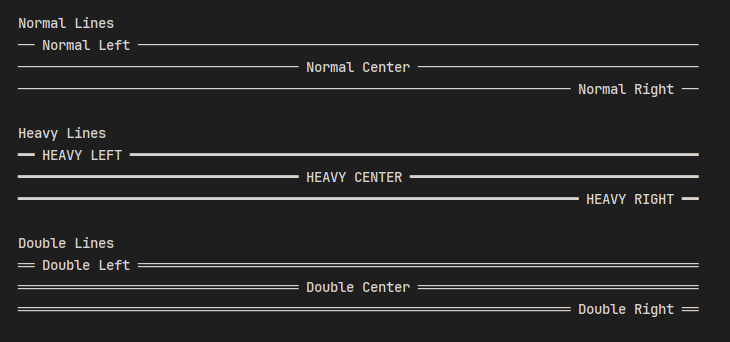
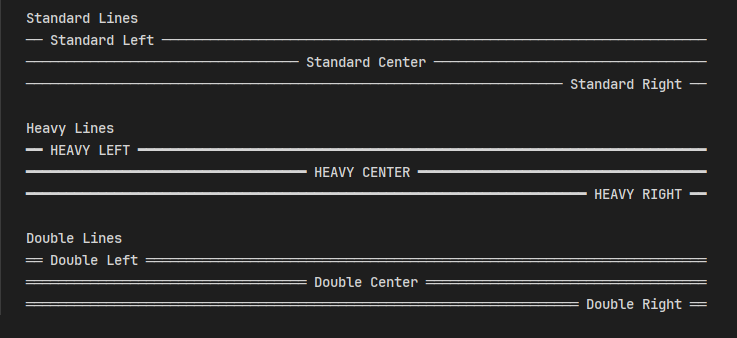
even more stuff v5

diff --git a/README.md b/README.md
@@ -14,10 +14,10 @@ dividers are shown below.
 Lines:
 
 ```text
-Normal Lines
-── Normal Left ──────────────────────────────────────────────────────────────────────
-─────────────────────────────────── Normal Center ───────────────────────────────────
-───────────────────────────────────────────────────────────────────── Normal Right ──
+Standard Lines
+── Standard Left ────────────────────────────────────────────────────────────────────
+────────────────────────────────── Standard Center ──────────────────────────────────
+─────────────────────────────────────────────────────────────────── Standard Right ──
 
 Heavy Lines
 ━━ HEAVY LEFT ━━━━━━━━━━━━━━━━━━━━━━━━━━━━━━━━━━━━━━━━━━━━━━━━━━━━━━━━━━━━━━━━━━━━━━━
